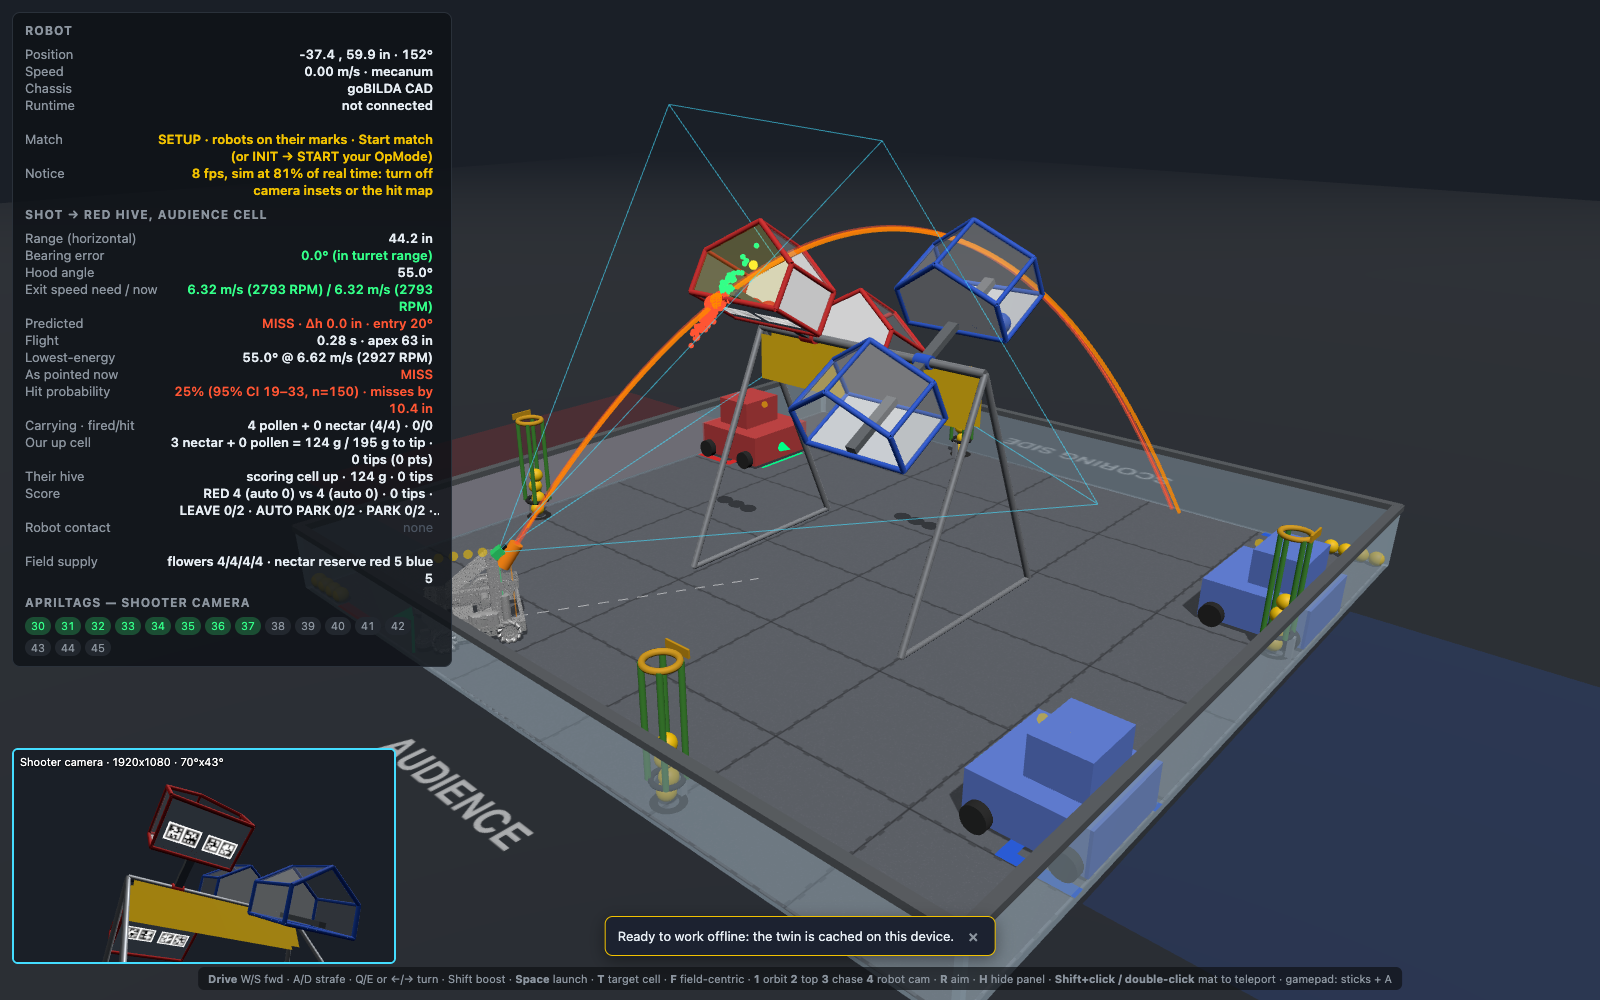
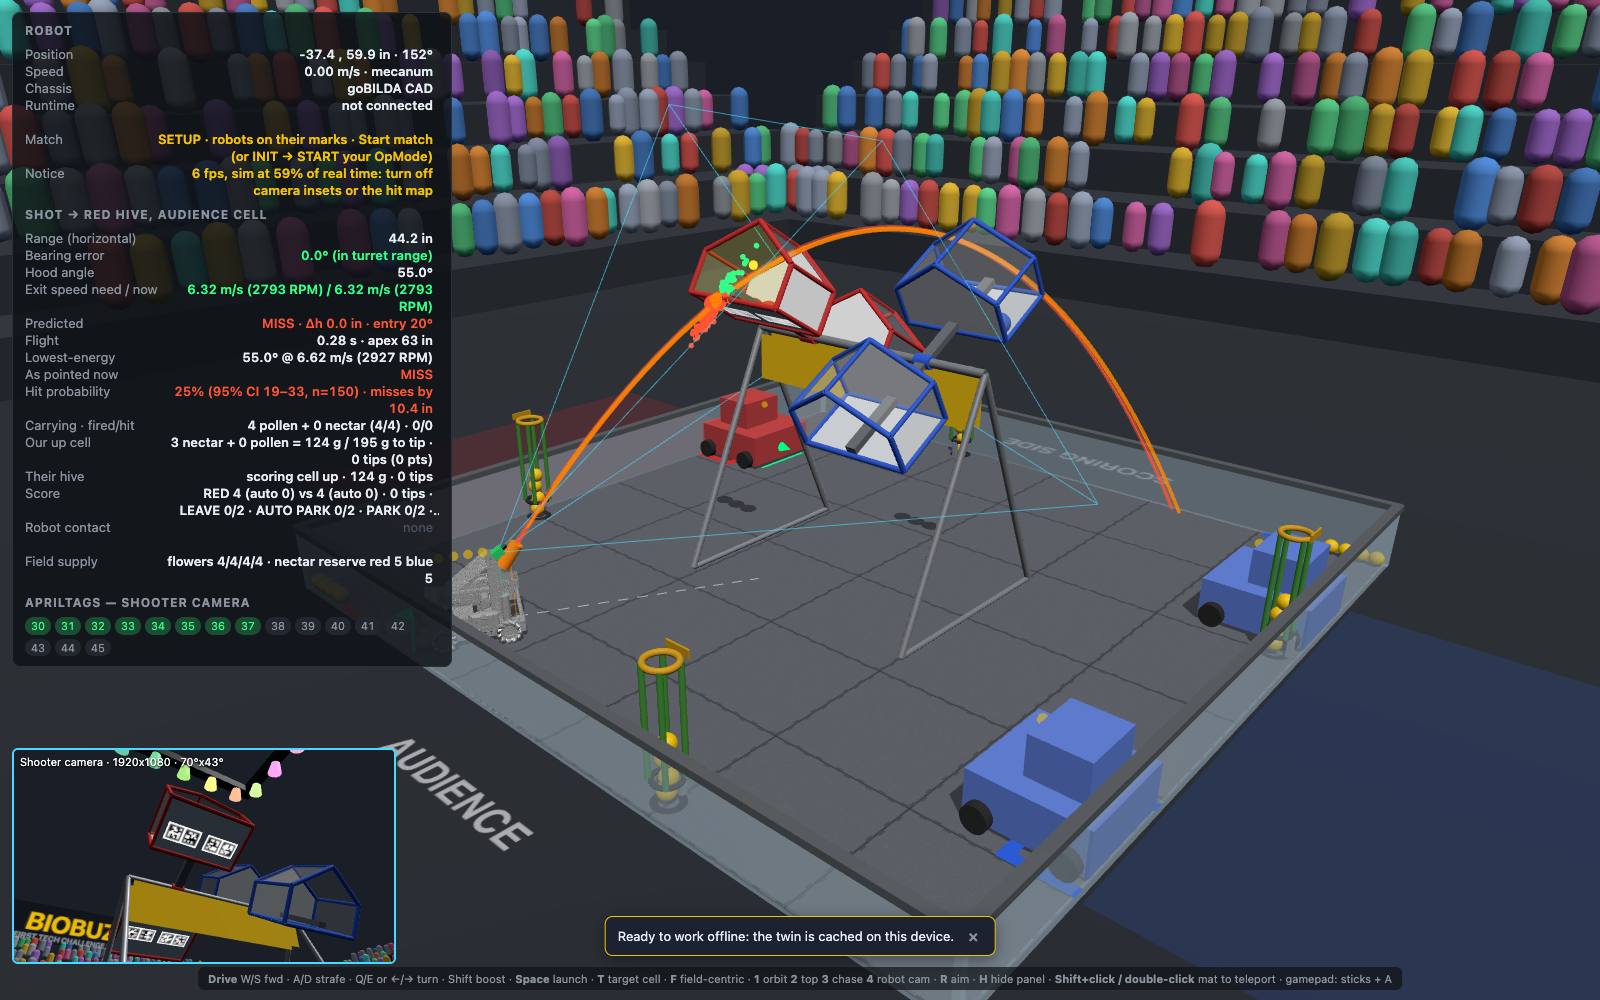
Stadium backdrop hidden in the top-down view; gallery removes the offline-ready toast before the overview shot

diff --git a/src/main.ts b/src/main.ts
@@ -1199,6 +1199,7 @@ function frame(now: number) {
   const renderThisFrame = !ciMode || renderCount < 3 || now - lastRenderAt >= 1000 || renderRequested;
   renderRequested = false;
   if (renderThisFrame) { lastRenderAt = now; renderCount++; }
+  venueFx.group.visible = state.stadium && state.view !== "top"; // the top-down view is for analysis: no truss fixtures in the way
   if (renderThisFrame) venueFx.update(real, now);
   if (renderThisFrame) renderer.render(scene, cam);
   perf.mark("render");
